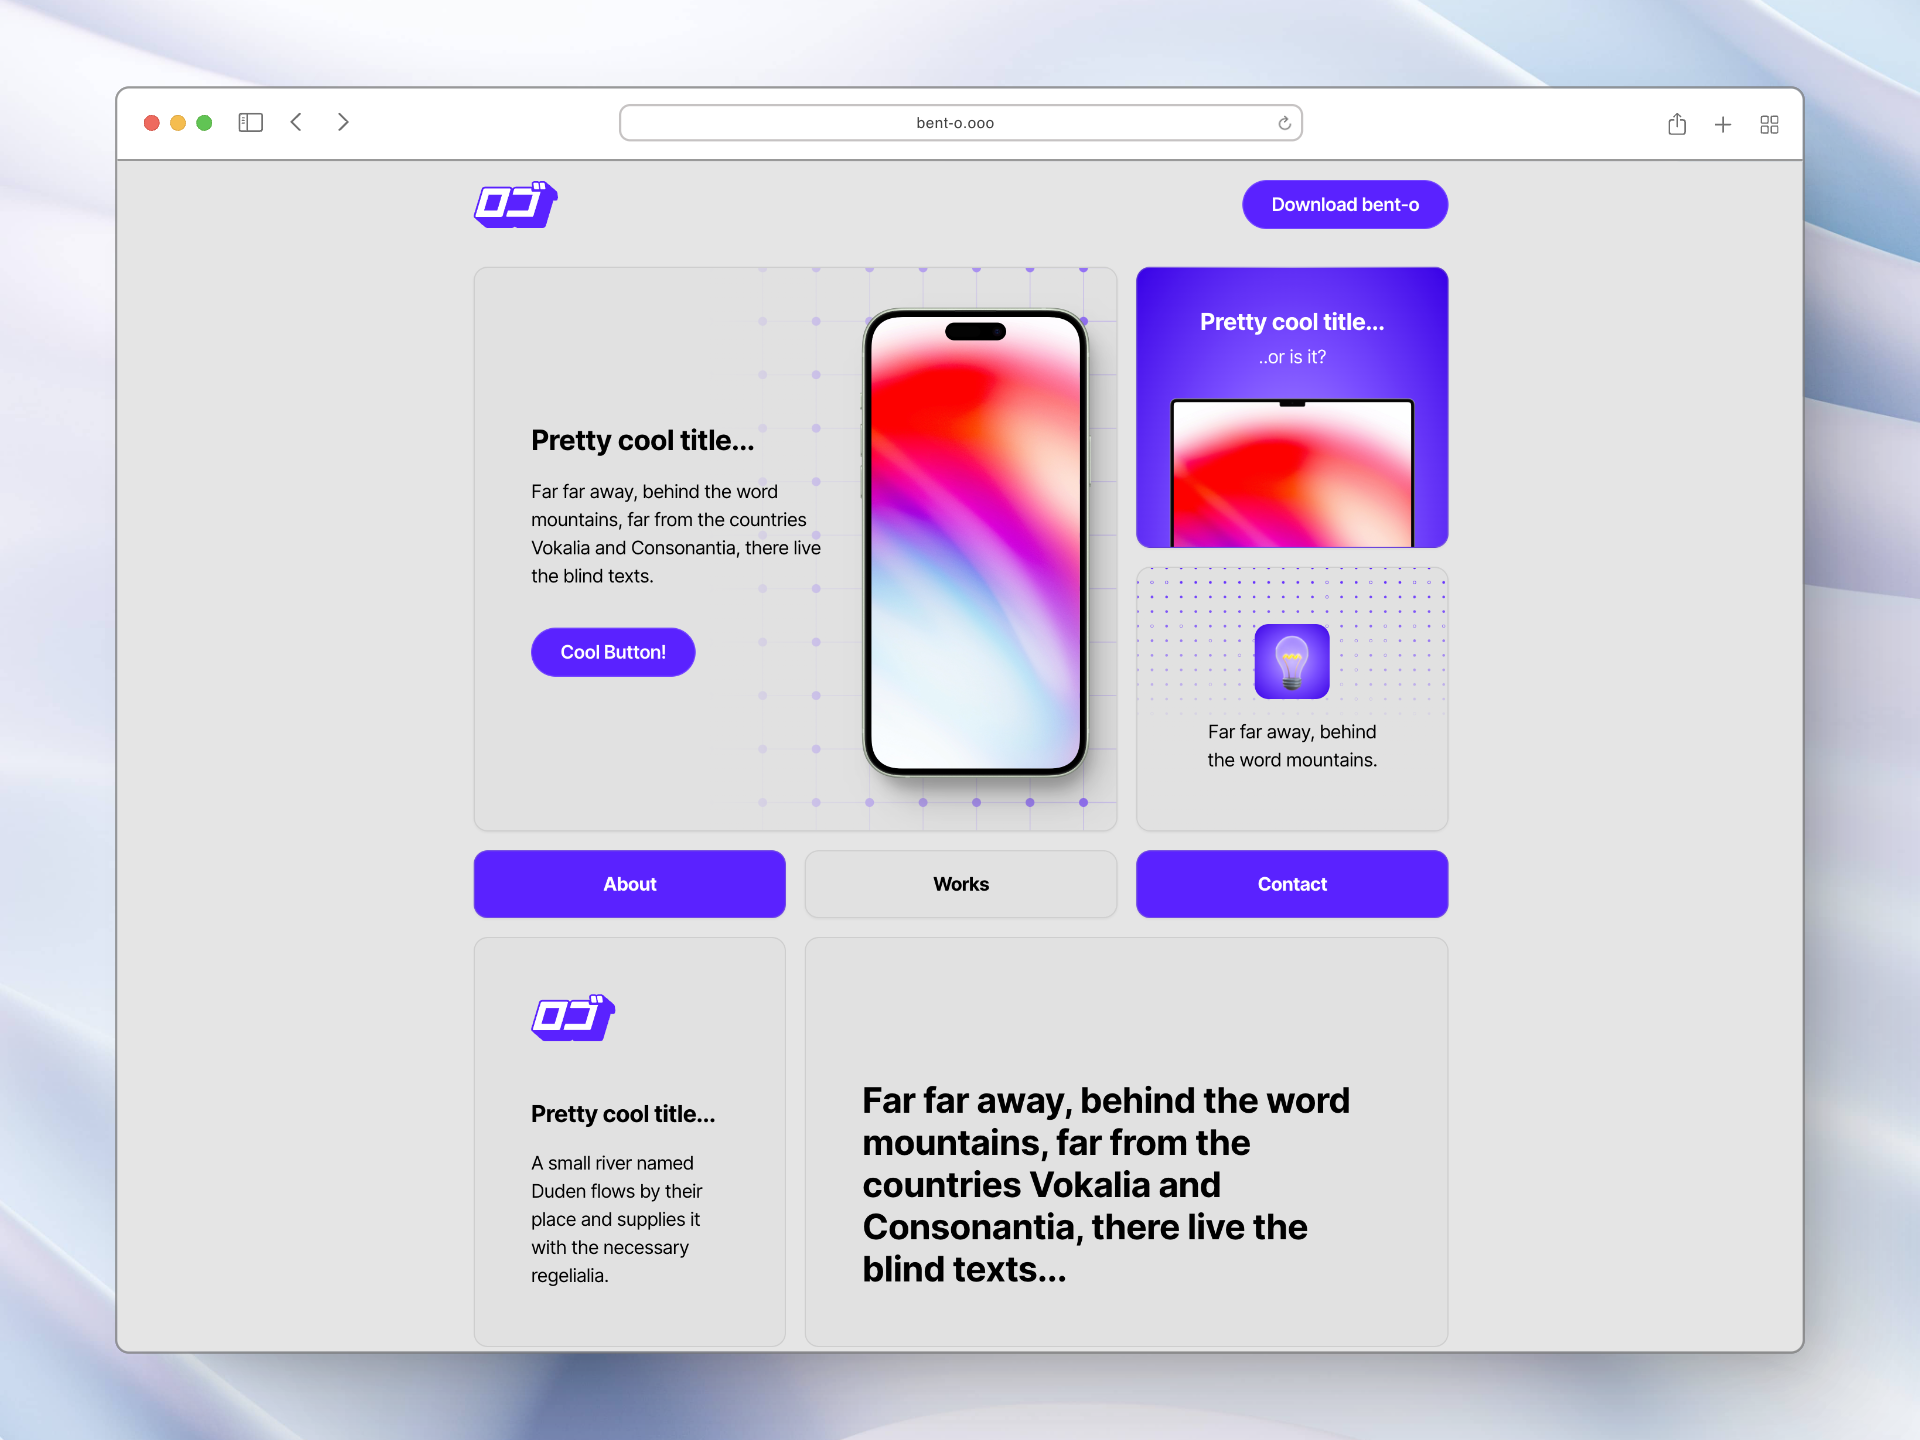
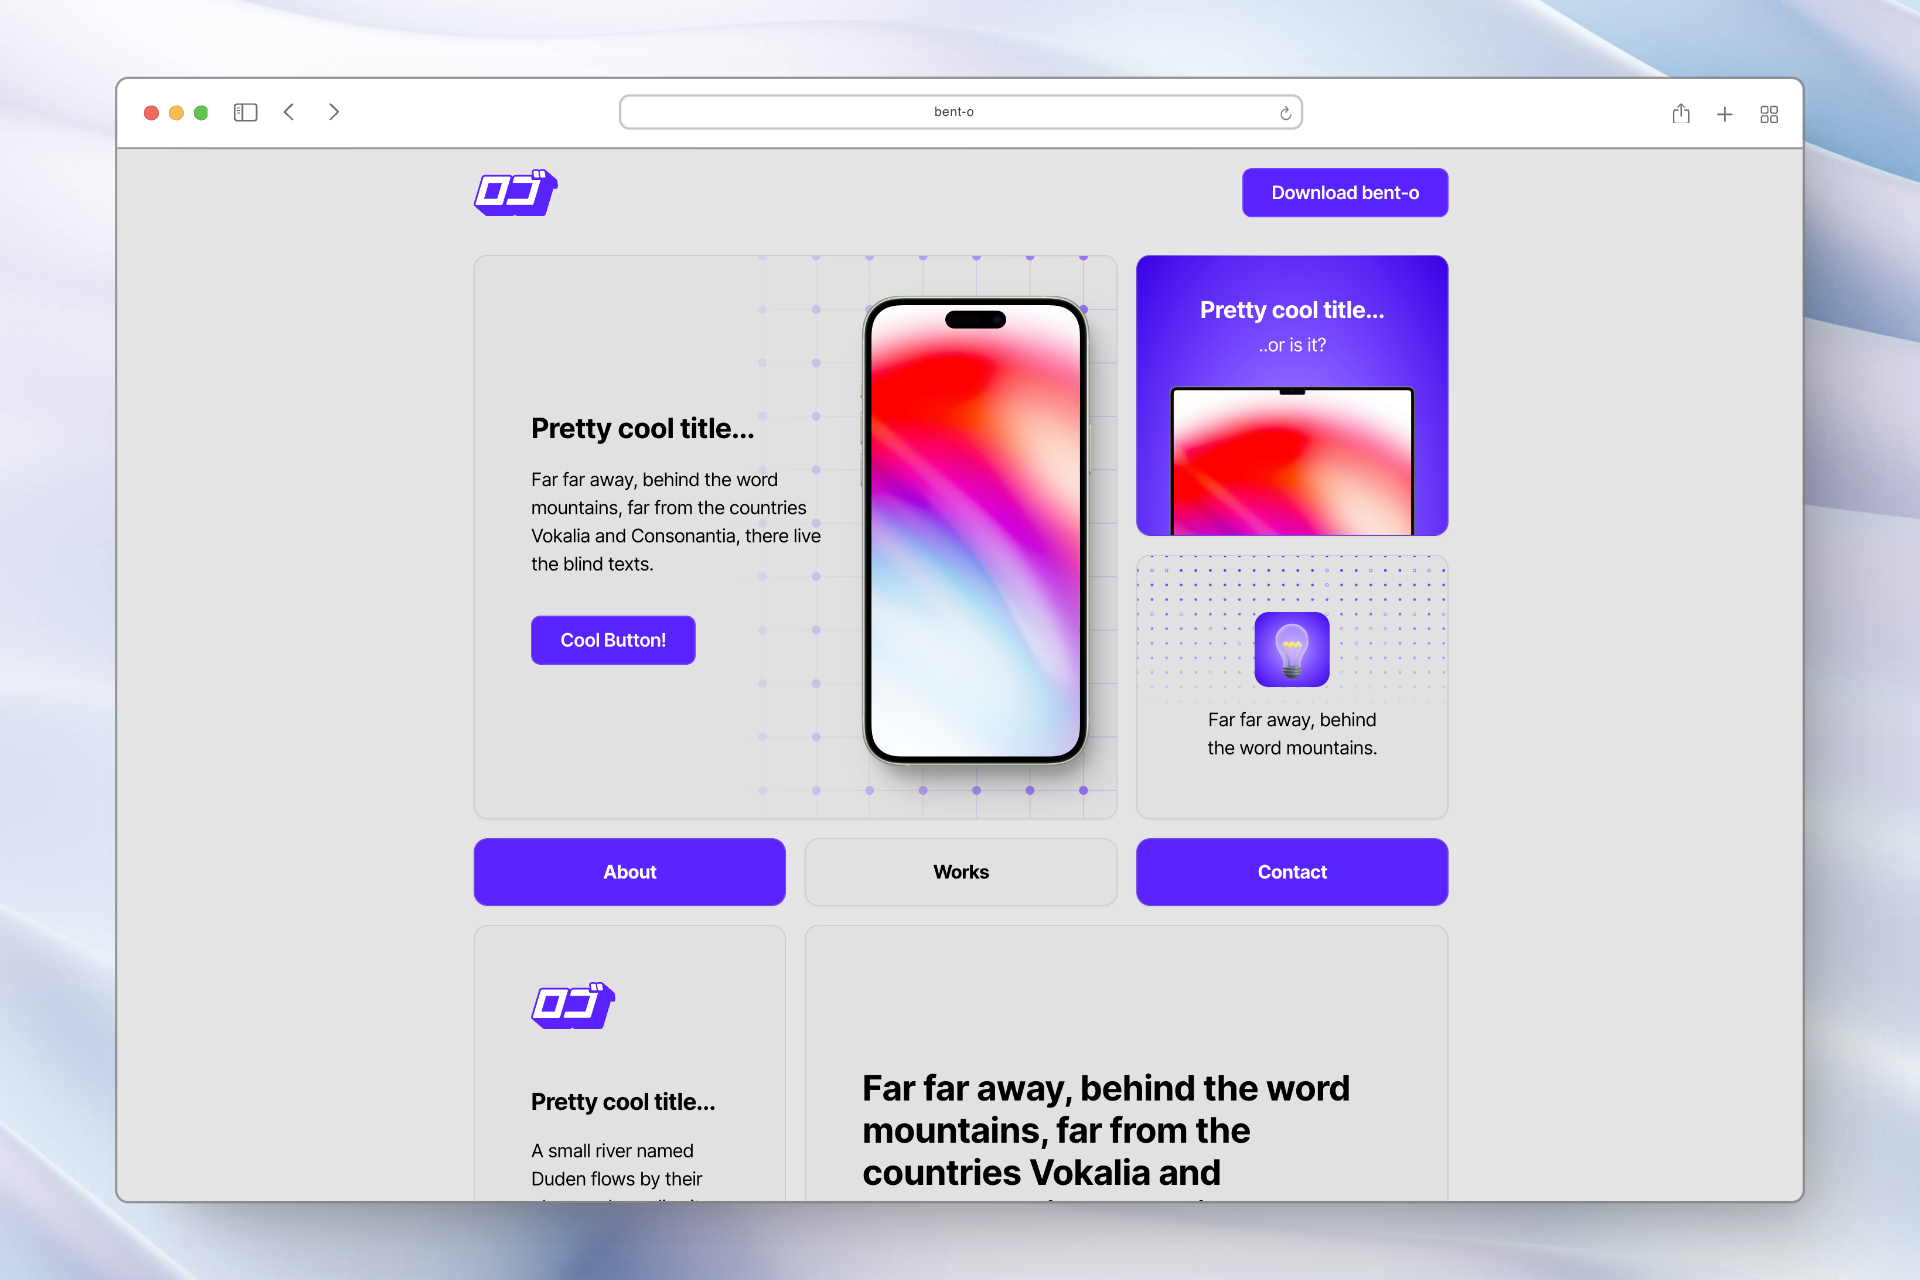
style: matched button styling to bento layout.

diff --git a/styles/core/_general.scss b/styles/core/_general.scss
@@ -71,7 +71,7 @@ body {
 
 @layer components {
     .btn {
-        @apply inline-flex w-full cursor-pointer items-center border border-primary-400/80 justify-center gap-3 rounded-full px-6 py-2 font-semibold text-secondary-500 transition-colors duration-300 hover:bg-primary-800 hover:text-white md:w-auto;
+        @apply inline-flex w-full cursor-pointer items-center border border-primary-400/80 justify-center gap-3 rounded-lg px-6 py-2 font-semibold text-secondary-500 transition-colors duration-300 hover:bg-primary-800 hover:text-white md:w-auto;
     }
 
     .btn--primary {
